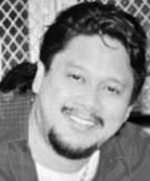
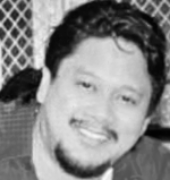
Normalized images on the about us page and added img-fluid

diff --git a/src/pages/our-team.js b/src/pages/our-team.js
@@ -2,7 +2,7 @@ import * as React from "react"
 
 import jerry from "../images/about-us/jerry.jpeg"
 import bobby from "../images/about-us/bobby.jpeg"
-import corazon from "../images/about-us/corazon.png"
+import corazon from "../images/about-us/corazon.jpg"
 import sally from "../images/about-us/sally.jpg"
 import willi from "../images/about-us/willi.jpg"
 import dennis from "../images/about-us/dennis.png"
@@ -20,7 +20,7 @@ const OurTeam = () => (
     <div id="bio" class="container my-5">
       <div class="row">
         <div class="col-4"/>
-        <h4 class="col-8 text-start pb-3" >MEET THE BOARD</h4>
+        <h3 class="col-8 text-start pb-3" >MEET THE BOARD</h3>
       </div>
       <Bio img={[jerry]}
            name="Jerry Clarito"

diff --git a/src/components/bio.js b/src/components/bio.js
@@ -11,7 +11,7 @@ const Bio = (props) => {
   return (
    <div class="row py-2">
     <div class="col-4">
-      <img class="rounded " src={img}/>
+      <img class="rounded-circle img-fluid" src={img} alt={name}/>
       <div class="nameTitle">
         <p class="fw-bold">{name}</p>
         <p>{title}</p>
